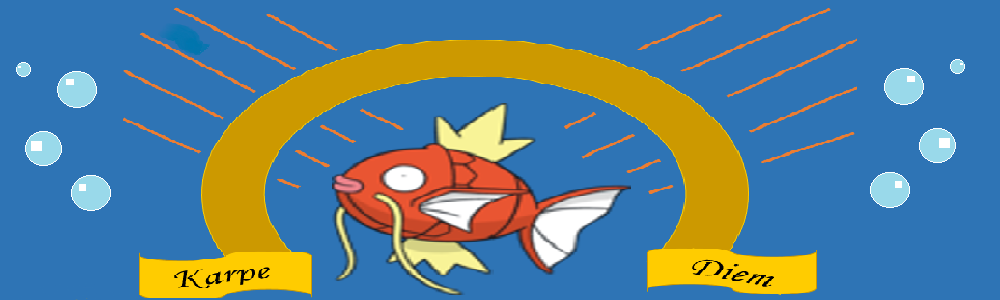
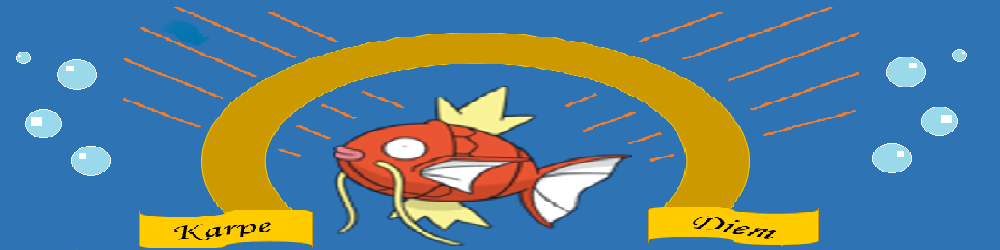
NEW DIVS YAEY

diff --git a/web/resources/css/headers.css b/web/resources/css/headers.css
@@ -1,28 +1,54 @@
-
+/*Website Banner Div*/
 .banners{
 	text-align:center;
-	 width:75%;
-	 position:relative;
-	 border-width: 6px;
-	 border-style: solid;
-	 max-height: 300px;
-	 max-width: 1000px;
-	 min-width: 1000px;
-	 max-height: 300px;
-	 margin: auto;
+	width:75%;
+	position:relative;
+	border-width: 6px;
+	border-style: solid;
+	max-width: 1000px;
+	min-width: 1000px;
+	max-height: 250px;
+	min-height: 250px;
+	margin: auto;
+	background-image: url(../images/squishy.png);
+}
+/*Navigation Bar Divs*/
+.NavBar{
+	text-align:center;
+	width:75%;
+	position:relative;
+	border-width: 6px;
+	border-style: solid;
+	max-width: 1000px;
+	min-width: 1000px;
+	max-height: 250px;
+	margin: auto;
 }
 
-.banners ul{
+.NavBar ul{
 	list-style: none;
 	text-align: left;
 }
 
-.banners li{
+.NavBar li{
 	display: inline-block;
 	padding-left: 25px;
 	padding-right: 25px;
 
 }
+
+.NavButton {
+	background-color: #4CAF50; /* Green */
+    border: none;
+    color: white;
+    padding: 15px 32px;
+    text-align: center;
+    text-decoration: none;
+    display: inline-block;
+    font-size: 16px;
+
+}
+
 
 .fuckTabitha{
 	text-align:center;
@@ -48,30 +74,6 @@
 	margin-left:300px;
 }
 
-/*Bottom Left Table on Roster Page*/
-.nav{
-	text-align:center;
-	height: 300px;
-	position: relative;
-	margin-left: 100px;
-	float: left;
-	border-style: solid;
-	max-width: 500px;
-	min-width: 500px;
-}
-
-/*Bottom Right table on Roster page*/
-.section{
-	text-align: center;
-	float: right;
-	position: relative;
-	margin-right: 50px;
-	height: 300px;
-	border-style: solid;
-	max-width: 500px;
-	min-width: 500px;
-}
-
 .body{
 	text-align:center;
 	width: 75%;
@@ -87,18 +89,6 @@
 
 body {
 	background-image: url(../images/backgroundbubbles.jpg););
-}
-
-.NavButton {
-	background-color: #4CAF50; /* Green */
-    border: none;
-    color: white;
-    padding: 15px 32px;
-    text-align: center;
-    text-decoration: none;
-    display: inline-block;
-    font-size: 16px;
-
 }
 
 .container{

diff --git a/web/account.html b/web/account.html
@@ -11,11 +11,9 @@
  
  	<body> 
  	  <div class="container">
- 	  <div class="banners"> 
- 	      <image src="resources/images/squishy.png" alt="Website Banner"> 
- 	  </div> 
+ 	      <div class="banners"></div> 
  	  <!-- Begin Navigation Bar Section -->
-      <div class="banners">
+      <div class="NavBar">
           <ul><center>
             <li>
                 <a href="Home.html">

diff --git a/web/loginpage.html b/web/loginpage.html
@@ -10,12 +10,10 @@
 	<body>
 	<div class="container">
 	<!-- Website Banner -->
-		<div class="banners">
-		<image src="resources/images/squishy.png" alt="Website Banner">
-		</div>
+		<div class="banners"></div>
 		  
 		<!-- Begin Navigation Bar Section -->
-	  <div class="banners">
+	  <div class="NavBar">
 		  <ul><center>
 		  	<li>
 		  		<a href="Home.html">

diff --git a/web/registrationpage.html b/web/registrationpage.html
@@ -11,12 +11,10 @@
 	<div class="container">
 
 	<!-- Website Banner -->
-		<div class="banners">
-		<image src="resources/images/squishy.png" alt="Website Banner">
-		</div>
+		<div class="banners"></div>
 		  
 		<!-- Begin Navigation Bar Section -->
-	  <div class="banners">
+	  <div class="NavBar">
 		  <ul><center>
 		  	<li>
 		  		<a href="Home.html">

diff --git a/web/Roster.html b/web/Roster.html
@@ -9,12 +9,10 @@
 
 	<body>
 		<div class="container">
-		<div class="banners">
-	  		<image src="resources/images/squishy.png" alt="Website Banner">
-	  	</div>
+		<div class="banners"></div>
 	  
 	  	<!-- Begin Navigation Bar Section -->
-    <div class="banners">
+    <div class="NavBar">
       <ul><center>
         <li>
           <a href="Home.html">

diff --git a/web/CharacterPage.html b/web/CharacterPage.html
@@ -9,12 +9,10 @@
 
 	<body>
 	<div class="container">
-	  	<div class="banners">
-	  		<image src="resources/images/squishy.png" alt="Website Banner">
-	  	</div>
+	  	<div class="banners"></div>
 	  
 	  	<!-- Begin Navigation Bar Section -->
-	  <div class="banners">
+	  <div class="NavBar">
 		  <ul><center>
 		  	<li>
 		  		<a href="Home.html">

diff --git a/web/Home.html b/web/Home.html
@@ -9,12 +9,10 @@
 
 	<body>
 	  <div class="container">
-	  <div class="banners">
-	  <image src="resources/images/squishy.png" alt="Website Banner">
-	  </div>
+	  <div class="banners"></div>
 	  
 	  <!-- Begin Navigation Bar Section -->
-	  <div class="banners">
+	  <div class="NavBar">
 		  <ul><center>
 		  	<li>
 		  		<a href="Home.html">
